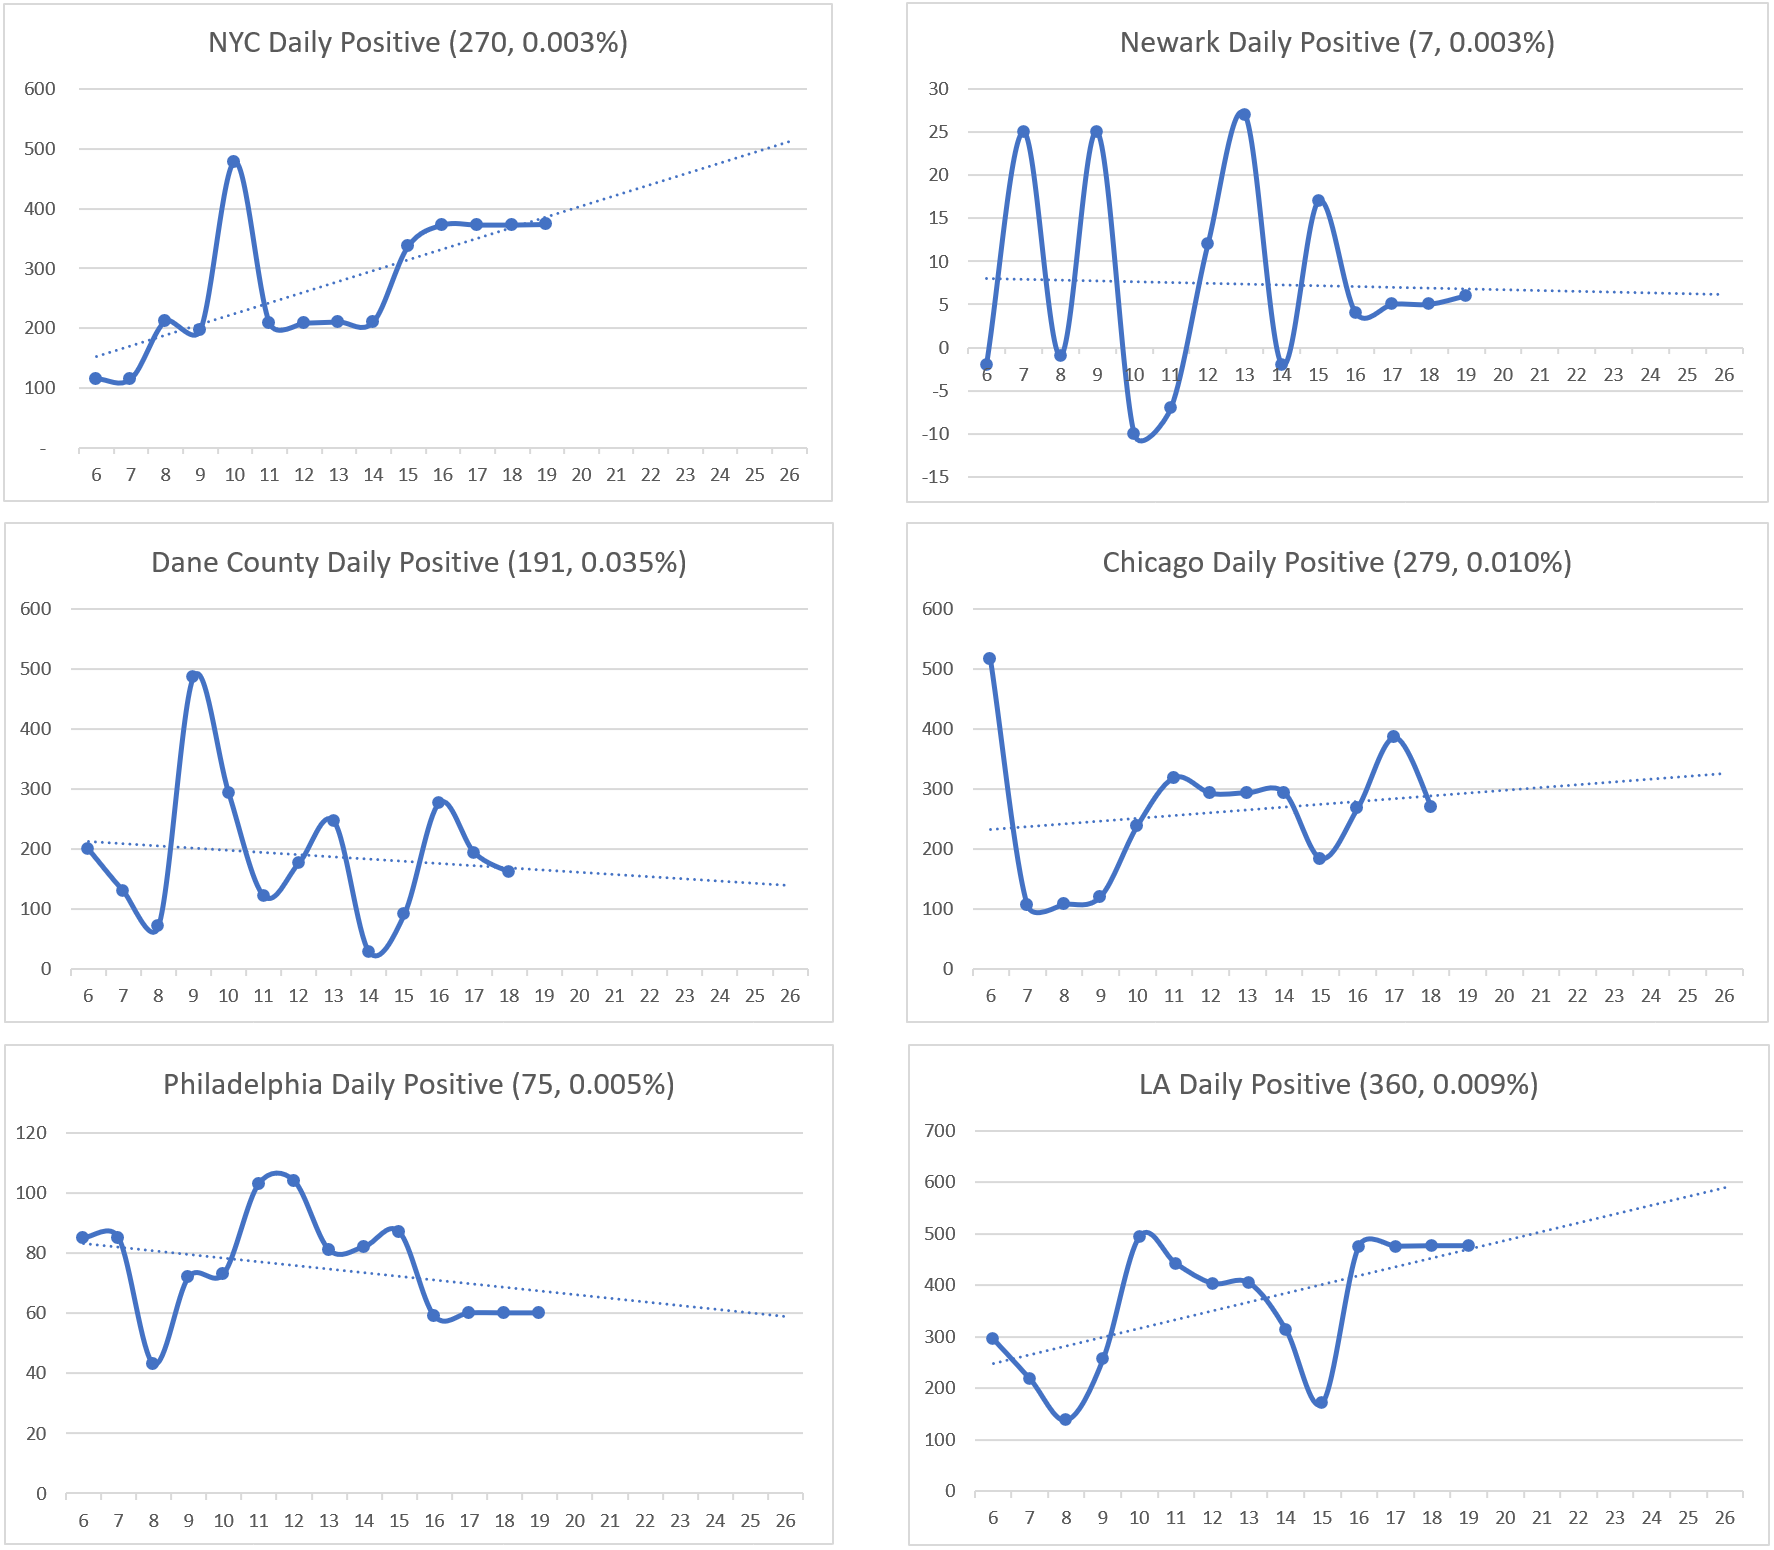
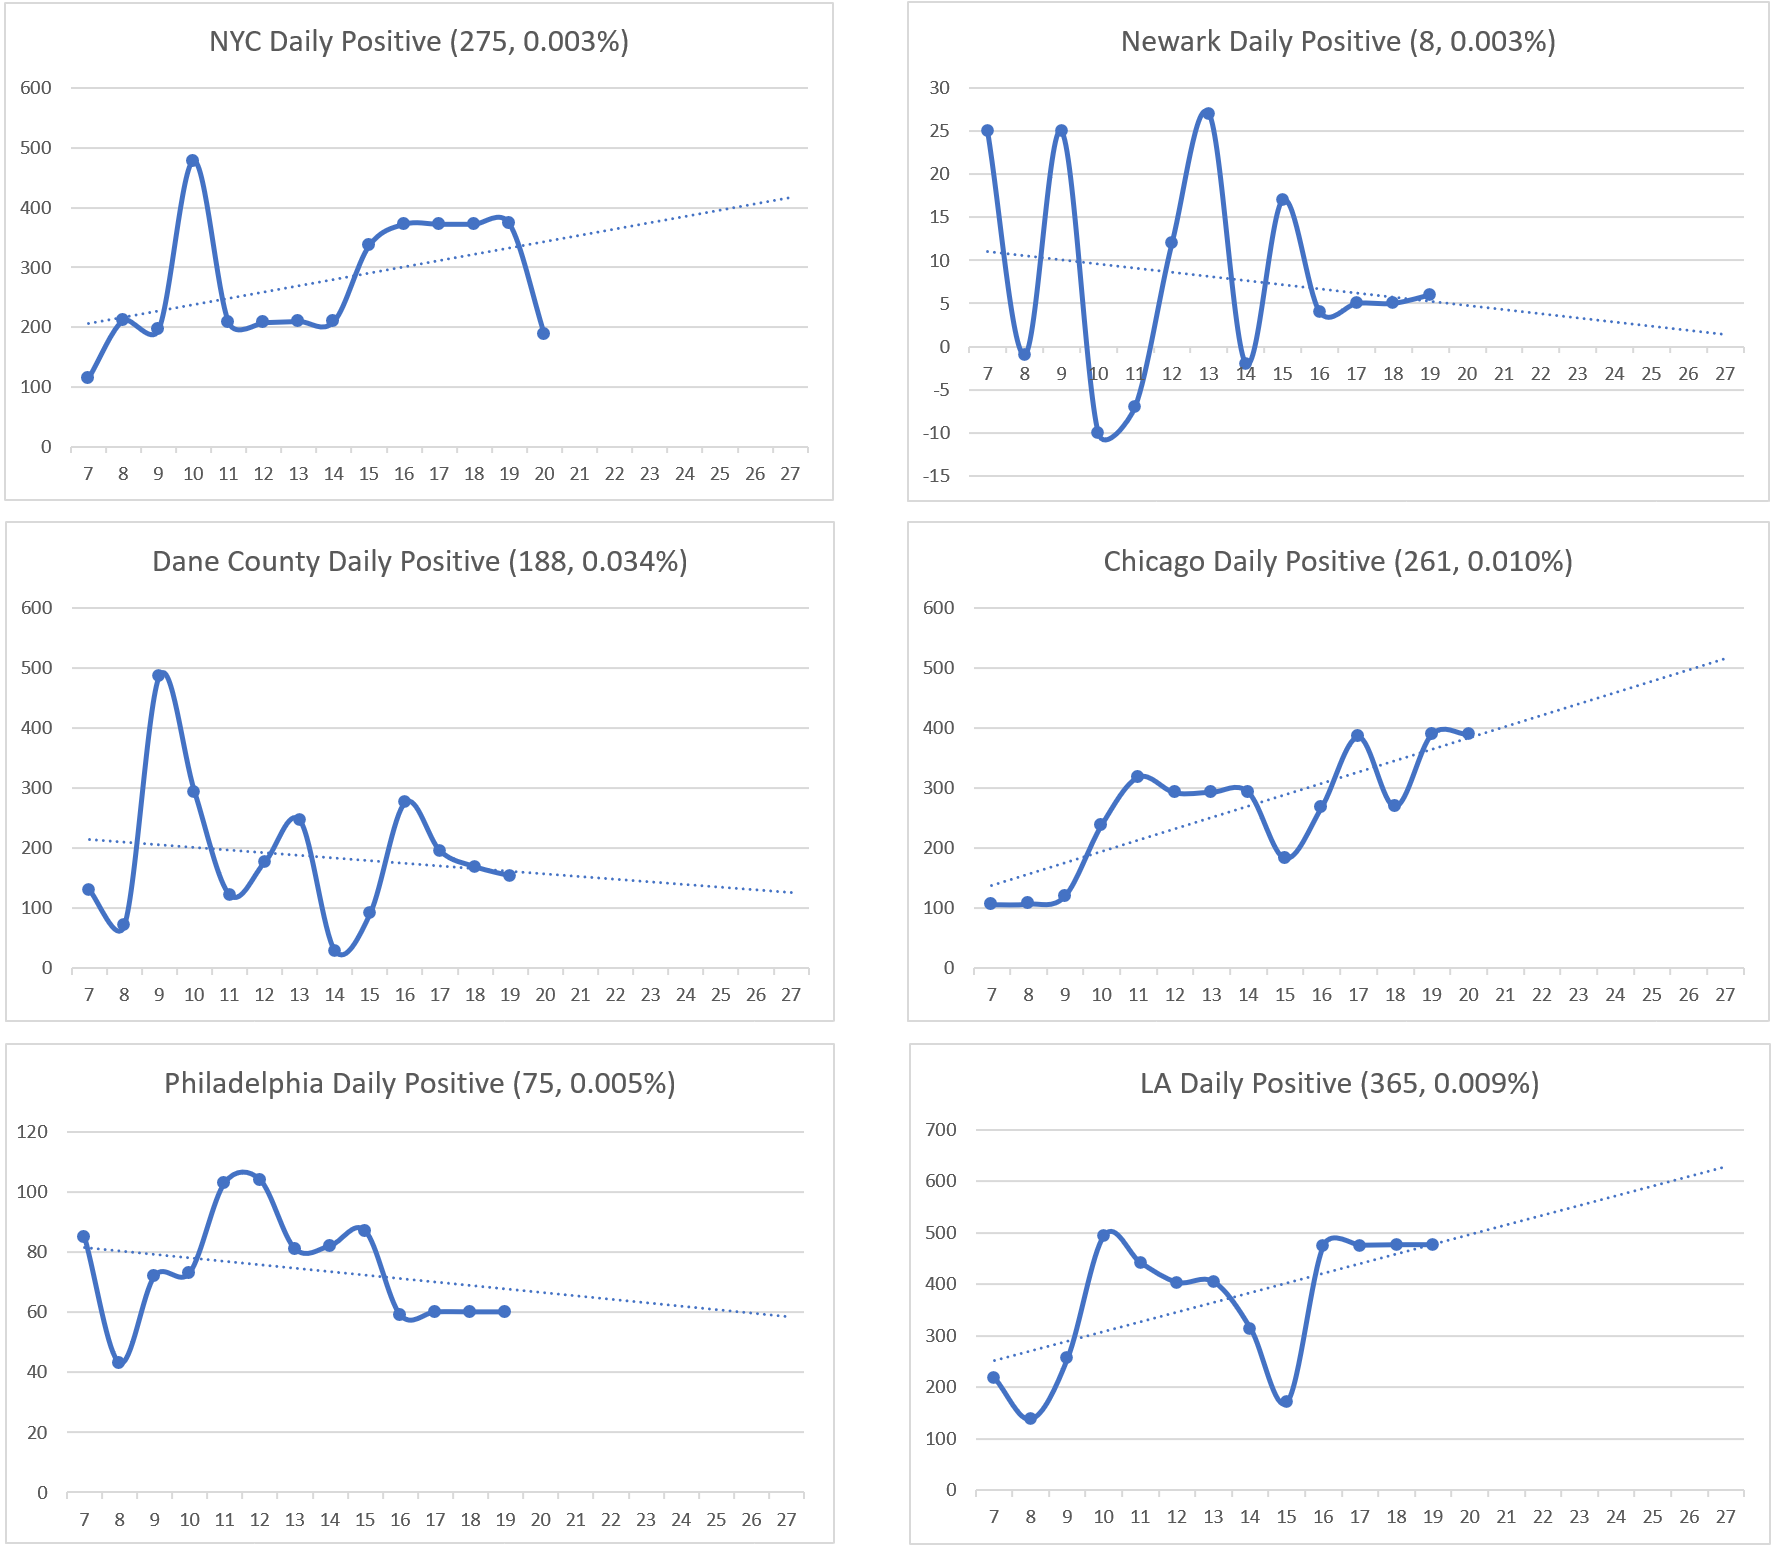
update 9/20 status

diff --git a/index.html b/index.html
@@ -19,7 +19,7 @@
 
 <body class="container-fluid">
 	<h1> CoronaV for Friends</h1>
-	<h2> Data updated at Sep 19 2020 EST 21:55</h2>
+	<h2> Data updated at Sep 20 2020 EST 20:40</h2>
 	<hr>
 	<main>
 		<div class="row">
